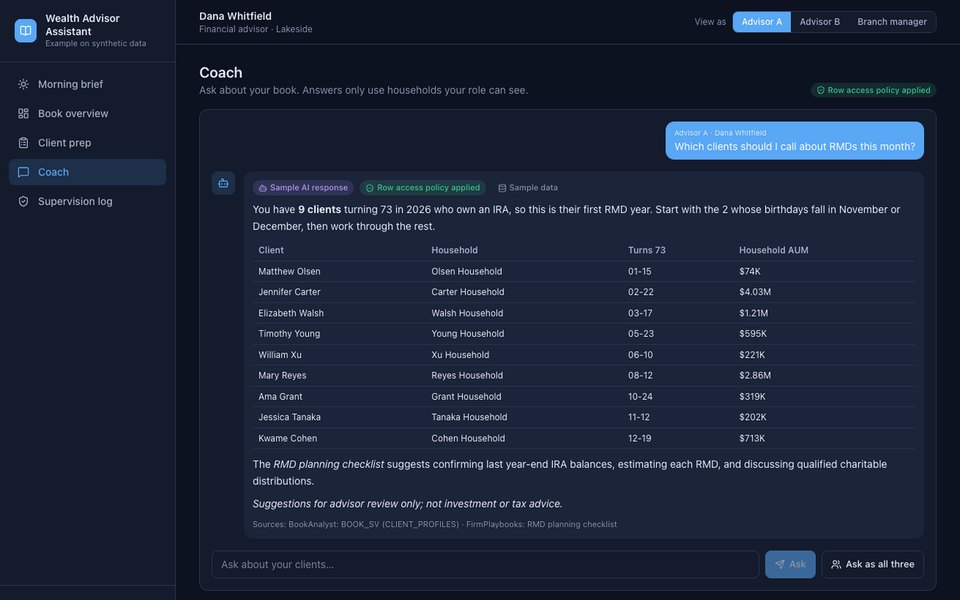
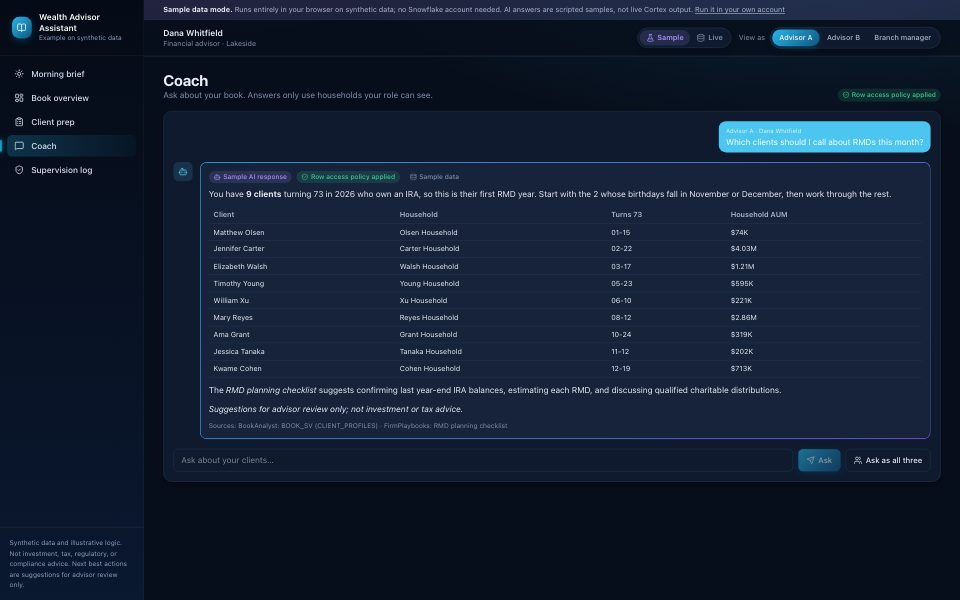
Capture screenshots with a script at a fixed viewport
scripts/capture-screenshots.mjs serves the static /try/ example and walks the
main flow in a fresh headless browser at 1600x1000, so image size no longer
depends on the screen or editor window and no sign-in can leak into a shot.
Landing images are now 2000x1250 (were 1280x899); catalog cards are 960x600.

Generated with [Snowflake CoCo](https://docs.snowflake.com/en/user-guide/cortex-code/cortex-code)

Changed region(s): [[0.0, 0.0, 1.0, 0.99], [0.0, 0.9, 0.125, 0.99], [0.1562, 0.96, 0.1875, 0.99]]

diff --git a/README.md b/README.md
@@ -141,13 +141,23 @@ lib/advisor-data.ts  Data interface used by every screen
 lib/mock-data.ts     No-account implementation (also runs in the browser for /try/)
 lib/live-data.ts     Snowflake implementation (server only)
 lib/snowflake.ts     Per-role connections, bind variables
-scripts/             generate-data.mjs (seeded), build-hosted-example.mjs
+scripts/             generate-data.mjs (seeded), build-hosted-example.mjs, capture-screenshots.mjs
 sql/                 setup.sql, cleanup.sql
 data/                Synthetic CSVs and data README
 docs/                GitHub Pages guide, screenshots, and the /try/ static example
 ```
 
 `npm run build:example` builds the static, no-account example into `docs/try/`.
+
+### Refresh the screenshots
+
+```bash
+npx playwright install chromium   # first time only
+npm run build:example
+npm run capture                   # COLOR_SCHEME=light npm run capture for light mode
+```
+
+`scripts/capture-screenshots.mjs` serves `docs/try/` locally and clicks through the walkthrough in a fresh headless browser at a fixed 1600×1000 viewport. It writes the landing-page images (`docs/images/*.png`, 2000×1250) and the catalog cards (`docs/catalog/*.jpg`, 960×600). Image size never depends on your screen, and no sign-in or account details can appear. Edit the `SHOTS` list when screens change, and review every image before publishing.
 
 ## License and disclaimer
 
